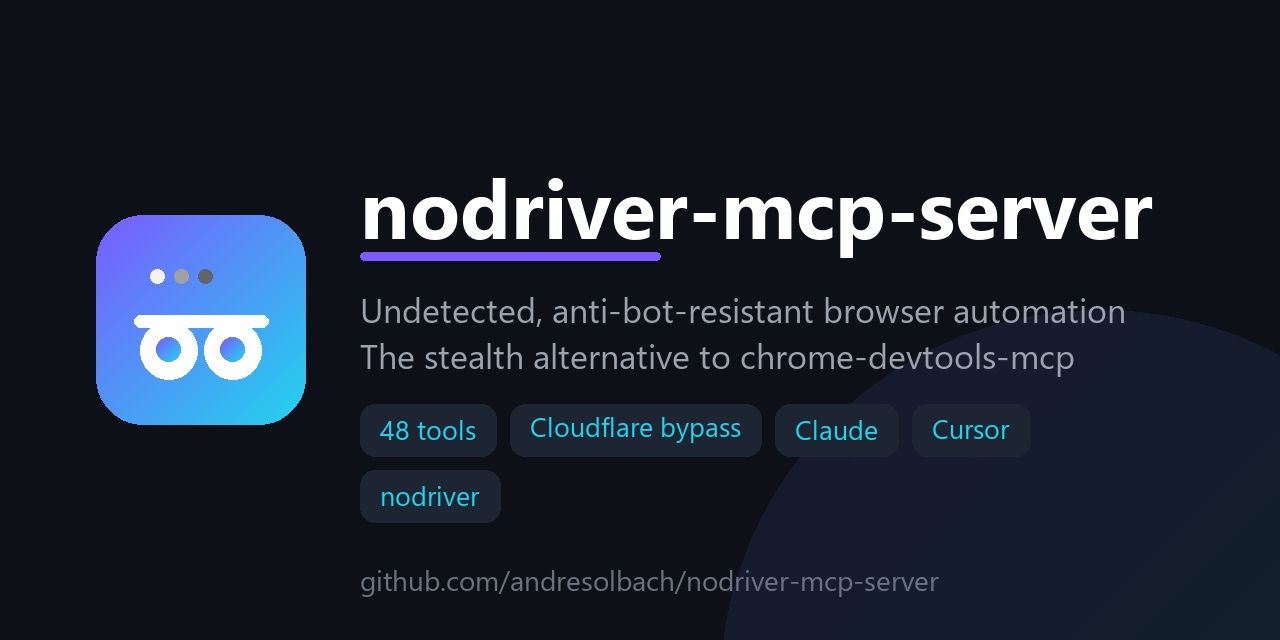
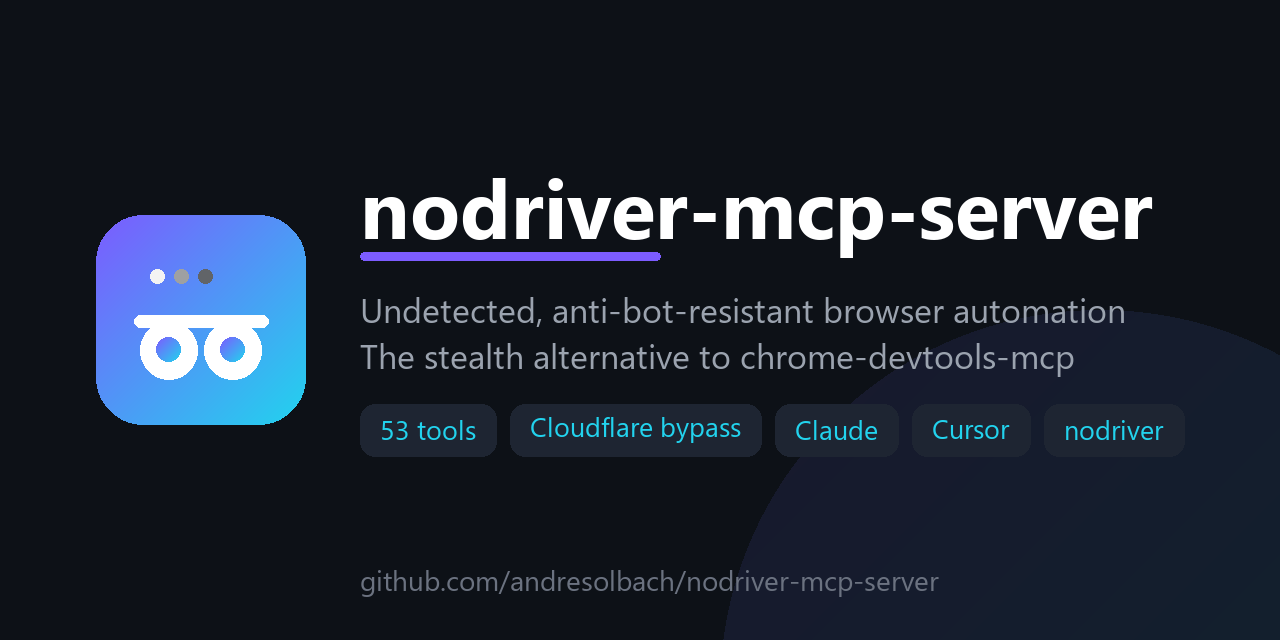
Add 5 tools: content/PDF export, selector waits, cookie clear, runtime flags (v1.5.0)
- set_browser_flags: toggle Google Translate popup + external extensions at runtime
- get_page_content: raw page text (innerText) or full HTML
- wait_for_selector: wait for a CSS selector (optionally visible)
- save_pdf: export the page as PDF (Chrome print-to-PDF)
- clear_cookies: clear all browser cookies
Tool count 48 -> 53.

Changed region(s): [[0.2812, 0.7188, 0.4062, 0.8438], [0.8125, 0.6562, 0.9062, 0.6875], [0.2812, 0.6562, 0.3125, 0.6875]]

diff --git a/src/nodriver_mcp/server.py b/src/nodriver_mcp/server.py
@@ -36,11 +36,17 @@ _browser_lock = asyncio.Lock()
 _selected_profile_dir: str | None = None
 _selected_profile_name: str | None = None
 _PROFILES_DIR = os.path.join(os.path.expanduser("~"), ".nodriver-mcp", "profiles")
+# Runtime overrides for the clean-launch flags (None -> use the env-var default).
+_enable_translate: bool | None = None
+_enable_extensions: bool | None = None
 
 
-def _feature_disabled_by_default(env_name: str) -> bool:
-    """A default-on cleanup is disabled unless its env toggle is truthy."""
-    return os.environ.get(env_name, "").lower() not in ("1", "true", "yes")
+def _feature_enabled(override: bool | None, env_name: str) -> bool:
+    """Whether a Chrome feature (Translate / extensions) is enabled: a runtime
+    override wins, else the env var, else disabled (clean-automation default)."""
+    if override is not None:
+        return override
+    return os.environ.get(env_name, "").lower() in ("1", "true", "yes")
 
 
 async def _browser_alive(b: uc.Browser) -> bool:
@@ -112,9 +118,9 @@ async def _get_browser() -> uc.Browser:
             #   - block externally-installed extensions + their "action required"
             #     prompts                              (NODRIVER_ENABLE_EXTENSIONS=true)
             browser_args: list[str] = []
-            if _feature_disabled_by_default("NODRIVER_ENABLE_TRANSLATE"):
+            if not _feature_enabled(_enable_translate, "NODRIVER_ENABLE_TRANSLATE"):
                 browser_args.append("--disable-features=Translate")
-            if _feature_disabled_by_default("NODRIVER_ENABLE_EXTENSIONS"):
+            if not _feature_enabled(_enable_extensions, "NODRIVER_ENABLE_EXTENSIONS"):
                 browser_args.append("--disable-extensions")
             if proxy:
                 browser_args.append(f"--proxy-server={proxy}")
@@ -2425,6 +2431,137 @@ async def list_sessions() -> str:
             lines.append(f"  {f} (unable to read)")
 
     return "\n".join(lines)
+
+
+# ---------------------------------------------------------------------------
+# Content extraction, waiting, export, cookies, runtime flags
+# ---------------------------------------------------------------------------
+
[email redacted]()
+async def get_page_content(format: str = "text", max_chars: int = 100000, file_path: str = "") -> str:
+    """Get the raw page content — visible text or full HTML.
+
+    Args:
+        format: "text" for document.body.innerText, "html" for the full outerHTML. Default "text".
+        max_chars: Truncate the returned output to this many characters (default 100000). 0 = no limit.
+        file_path: Optional path to save the content to instead of returning it.
+    """
+    tab = await _active_tab()
+    if format == "html":
+        content = await tab.evaluate("document.documentElement.outerHTML")
+    else:
+        content = await tab.evaluate("document.body ? document.body.innerText : ''")
+    content = content or ""
+    if file_path:
+        with open(file_path, "w", encoding="utf-8") as f:
+            f.write(content)
+        return f"Saved {len(content)} chars of {format} to {file_path}."
+    if max_chars and len(content) > max_chars:
+        return content[:max_chars] + f"\n... (truncated, {len(content)} chars total)"
+    return content
+
+
[email redacted]()
+async def wait_for_selector(selector: str, timeout: int = 30000, visible: bool = False) -> str:
+    """Wait for an element matching a CSS selector to appear on the page.
+
+    Args:
+        selector: CSS selector to wait for (e.g. "#login", ".results .item").
+        timeout: Maximum wait time in milliseconds. Default 30000.
+        visible: If true, also require the element to have a non-zero size.
+    """
+    tab = await _active_tab()
+    sel = json.dumps(selector)
+    if visible:
+        expr = ("(() => { const el = document.querySelector(%s); if (!el) return false; "
+                "const r = el.getBoundingClientRect(); return r.width > 0 && r.height > 0; })()" % sel)
+    else:
+        expr = "!!document.querySelector(%s)" % sel
+    timeout_s = timeout / 1000
+    start = time.time()
+    while time.time() - start < timeout_s:
+        try:
+            if await tab.evaluate(expr):
+                return f"Element '{selector}' found."
+        except Exception:
+            pass
+        await asyncio.sleep(0.3)
+    return f"Timeout: '{selector}' did not appear within {timeout}ms."
+
+
[email redacted]()
+async def save_pdf(file_path: str, landscape: bool = False, print_background: bool = True) -> str:
+    """Save the current page as a PDF (Chrome print-to-PDF).
+
+    Args:
+        file_path: Path to write the .pdf file.
+        landscape: Landscape orientation. Default false.
+        print_background: Include background graphics/colors. Default true.
+    """
+    tab = await _active_tab()
+    import nodriver.cdp.page as cdp_page
+    result = await tab.send(cdp_page.print_to_pdf(
+        landscape=landscape,
+        print_background=print_background,
+        transfer_mode="ReturnAsBase64",
+    ))
+    data = result[0] if isinstance(result, tuple) else result
+    with open(file_path, "wb") as f:
+        f.write(base64.b64decode(data))
+    return f"PDF saved to {file_path}."
+
+
[email redacted]()
+async def clear_cookies() -> str:
+    """Clear all browser cookies for the current browser session."""
+    tab = await _active_tab()
+    import nodriver.cdp.network as cdp_net
+    await tab.send(cdp_net.clear_browser_cookies())
+    return "All cookies cleared."
+
+
[email redacted]()
+async def set_browser_flags(
+    translate: bool | None = None,
+    extensions: bool | None = None,
+    restart: bool = True,
+) -> str:
+    """Enable/disable the Google Translate popup and externally-installed Chrome
+    extensions at runtime (overrides the NODRIVER_ENABLE_* env vars). These are
+    Chrome launch flags, so the browser is restarted to apply them.
+
+    Args:
+        translate: true = allow the Google Translate popup; false = suppress it. Omit to leave unchanged.
+        extensions: true = allow external Chrome extensions; false = block them. Omit to leave unchanged.
+        restart: restart the browser now so the change applies (default true).
+    """
+    global _enable_translate, _enable_extensions
+    changed = []
+    if translate is not None:
+        _enable_translate = translate
+        changed.append(f"translate={'on' if translate else 'off'}")
+    if extensions is not None:
+        _enable_extensions = extensions
+        changed.append(f"extensions={'on' if extensions else 'off'}")
+
+    eff_t = _feature_enabled(_enable_translate, "NODRIVER_ENABLE_TRANSLATE")
+    eff_e = _feature_enabled(_enable_extensions, "NODRIVER_ENABLE_EXTENSIONS")
+    status = (f"Google Translate popup: {'enabled' if eff_t else 'disabled'} | "
+              f"External extensions: {'enabled' if eff_e else 'disabled'}")
+
+    if not changed:
+        return f"Current flags — {status}\n(Pass translate= / extensions= to change.)"
+
+    msg = "Updated: " + ", ".join(changed) + f"\n{status}"
+    if restart:
+        was = await _stop_browser()
+        msg += "\nBrowser " + (
+            "stopped; relaunches with the new flags on the next action."
+            if was else "will start with these flags on the next action."
+        )
+    else:
+        msg += "\nUse close_browser (or restart) for the change to take effect."
+    return msg
 
 
 # ---------------------------------------------------------------------------

diff --git a/README.md b/README.md
@@ -9,7 +9,7 @@
 ![License: MIT](https://img.shields.io/badge/license-MIT-green.svg)
 ![Python 3.12+](https://img.shields.io/badge/python-3.12%2B-blue.svg)
 ![MCP compatible](https://img.shields.io/badge/MCP-compatible-purple.svg)
-![Tools: 48](https://img.shields.io/badge/tools-48-orange.svg)
+![Tools: 53](https://img.shields.io/badge/tools-53-orange.svg)
 ![Stars](https://img.shields.io/github/stars/andresolbach/nodriver-mcp-server?style=social)
 
 > **Keywords:** MCP server · browser automation · undetected chromedriver · anti-bot · Cloudflare bypass · web scraping · Claude · Cursor · nodriver · chrome-devtools-mcp alternative · Playwright/Puppeteer alternative · AI agent tools.
@@ -18,13 +18,13 @@
 
 `chrome-devtools-mcp` and most Playwright/Puppeteer-based servers drive Chrome through CDP/WebDriver in a way that leaves detectable fingerprints (`navigator.webdriver`, CDP artifacts). Anti-bot systems (Cloudflare, hCaptcha, DataDome, etc.) flag these instantly.
 
-`nodriver` is the successor of `undetected-chromedriver`. It talks **directly to the CDP protocol** — no ChromeDriver binary, no Selenium/WebDriver markers — so automated sessions look like a real user. This server exposes that power through the **same tool surface as `chrome-devtools-mcp`** (48 tools), so your agent gets a familiar API with far better stealth.
+`nodriver` is the successor of `undetected-chromedriver`. It talks **directly to the CDP protocol** — no ChromeDriver binary, no Selenium/WebDriver markers — so automated sessions look like a real user. This server exposes that power through the **same tool surface as `chrome-devtools-mcp`** (53 tools), so your agent gets a familiar API with far better stealth.
 
 ## Features
 
 - 🕵️ **Undetected by design** — `navigator.webdriver` is `undefined`, no CDP fingerprints.
 - ☁️ **Built-in Cloudflare challenge solver** (`cf_verify`).
-- 🧩 **48 tools** covering navigation, input, snapshots, screenshots, network + console inspection, device emulation, cookies/storage, sessions, profiles, and performance tracing.
+- 🧩 **53 tools** covering navigation, input, snapshots, screenshots, content/PDF export, network + console inspection, device emulation, cookies/storage, sessions, profiles, and performance tracing.
 - 📄 **Accessibility-tree snapshots** (`take_snapshot`) — searchable, LLM-friendly page text that's far smaller and faster than screenshots.
 - 📱 **Device emulation** (Pixel 7, iPad) with correct UA / client hints.
 - 💾 **Session save/restore** — persist logins across runs.
@@ -103,7 +103,7 @@ nodriver-mcp install --scope project
 | `NODRIVER_ENABLE_TRANSLATE` | Set `true` to re-enable Chrome's Google Translate popup | Disabled |
 | `NODRIVER_ENABLE_EXTENSIONS` | Set `true` to allow externally-installed Chrome extensions (and their prompts) | Disabled |
 
-By default the browser starts clean for automation: the **Google Translate popup is suppressed** and **externally-installed Chrome extensions are blocked** (so you don't get "an extension requires your attention" prompts). Re-enable either via the env vars above. The browser also **auto-recovers** if Chrome is closed or crashes between calls — tools relaunch it instead of failing.
+By default the browser starts clean for automation: the **Google Translate popup is suppressed** and **externally-installed Chrome extensions are blocked** (so you don't get "an extension requires your attention" prompts). Re-enable either via the env vars above **or at runtime with the `set_browser_flags` tool**. The browser also **auto-recovers** if Chrome is closed or crashes between calls — tools relaunch it instead of failing.
 
 ## Profiles & running multiple instances at once
 
@@ -119,7 +119,7 @@ When you want to **reuse a login across sessions**, create a named persistent pr
 
 Persistent profiles live under `~/.nodriver-mcp/profiles/<name>`. You can still force a fixed profile globally with the `NODRIVER_USER_DATA_DIR` env var.
 
-## Tools (48)
+## Tools (53)
 
 Network collection is enabled automatically on each tab. Console collection is opt-in: call `enable_console_collection` when you want `list_console_messages` / `get_console_message` to start collecting events. This keeps `Runtime.enable()` disabled by default for sites that detect attached debuggers.
 
@@ -128,14 +128,14 @@ For mobile-only sites, pass `device` directly to `new_page(...)` or `navigate_pa
 | Category | Tools |
 |----------|-------|
 | **Input automation (10)** | `click` · `click_at` · `hover` · `fill` · `fill_form` · `type_text` · `press_key` · `drag` · `upload_file` · `handle_dialog` |
-| **Navigation (8)** | `navigate_page` · `new_page` · `close_page` · `close_browser` · `list_pages` · `select_page` · `wait_for` · `scroll_page` |
-| **Snapshots & debugging (7)** | `take_screenshot` · `take_snapshot` · `evaluate_script` · `enable_console_collection` · `disable_console_collection` · `list_console_messages` · `get_console_message` |
+| **Navigation (9)** | `navigate_page` · `new_page` · `close_page` · `close_browser` · `list_pages` · `select_page` · `wait_for` · `wait_for_selector` · `scroll_page` |
+| **Snapshots & debugging (9)** | `take_screenshot` · `take_snapshot` · `get_page_content` · `evaluate_script` · `save_pdf` · `enable_console_collection` · `disable_console_collection` · `list_console_messages` · `get_console_message` |
 | **Network monitoring (2)** | `list_network_requests` · `get_network_request` |
 | **Device emulation (4)** | `emulate` · `emulate_device` · `reset_emulation` · `resize_page` |
 | **Performance (3)** | `performance_start_trace` · `performance_stop_trace` · `take_memory_snapshot` |
-| **Cookies & storage (4)** | `get_cookies` · `set_cookie` · `get_local_storage` · `set_local_storage` |
+| **Cookies & storage (5)** | `get_cookies` · `set_cookie` · `clear_cookies` · `get_local_storage` · `set_local_storage` |
 | **Session management (3)** | `save_session` · `load_session` · `list_sessions` |
-| **Profile management (5)** | `list_profiles` · `create_profile` · `use_profile` · `use_temp_profile` · `delete_profile` |
+| **Profiles & browser (6)** | `list_profiles` · `create_profile` · `use_profile` · `use_temp_profile` · `delete_profile` · `set_browser_flags` |
 | **Anti-detection helpers (2)** | `cf_verify` · `bypass_insecure_warning` |
 
 ## Comparison with chrome-devtools-mcp
@@ -148,7 +148,7 @@ For mobile-only sites, pass `device` directly to `new_page(...)` or `navigate_pa
 | Cloudflare bypass | ❌ | ✅ Built-in `cf_verify` |
 | Install method | npx | uv tool install |
 | Language | TypeScript / Node.js | Python |
-| Tool coverage | 29 tools | 48 tools |
+| Tool coverage | 29 tools | 53 tools |
 
 Tools not implemented: `performance_analyze_insight` (needs the DevTools frontend trace parser), `lighthouse_audit` (needs the Lighthouse Node API), `screencast_start/stop` (needs ffmpeg + Puppeteer), extension management (experimental).
 

diff --git a/CHANGES.md b/CHANGES.md
@@ -1,5 +1,17 @@
 # Changelog
 
+## 1.5.0 — content/PDF export, selector waits, cookie clearing, runtime flags
+
+Five new tools (count 48 → 53):
+
+- **`set_browser_flags`** — toggle the Google Translate popup and external Chrome
+  extensions **at runtime** (overrides the env vars; restarts the browser to apply).
+- **`get_page_content`** — raw page text (`innerText`) or full HTML, for scraping/reading.
+- **`wait_for_selector`** — wait for a CSS selector to appear (optionally visible),
+  complementing the text-based `wait_for`.
+- **`save_pdf`** — export the current page as a PDF (Chrome print-to-PDF).
+- **`clear_cookies`** — clear all browser cookies.
+
 ## 1.4.3 — close_browser tool
 
 - New **`close_browser`** tool to quit Chrome entirely (unlike `close_page`,